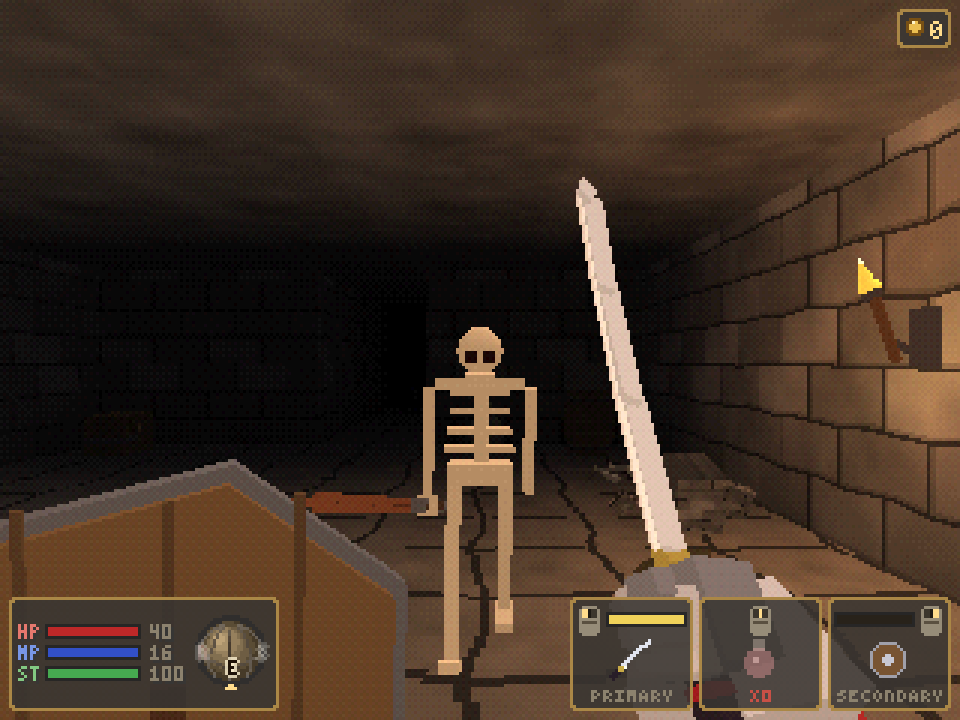
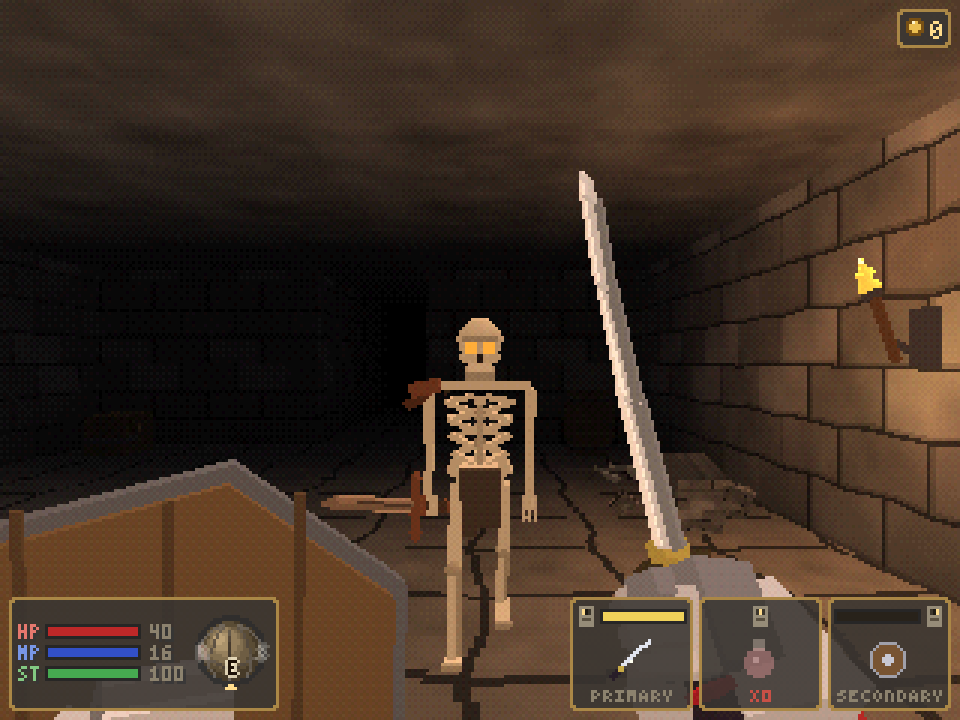
Retake the README shots with the redesigned foes
Every shot taken before the foes, swords and the Warden were redesigned
now shows the current models. The flame bolt is caught bursting on the
bone walker, since in flight it hides him. AGENTS.md notes that a new
shield needs its strap in SHIELD_GRIPS.

diff --git a/README.md b/README.md
@@ -41,7 +41,7 @@ FromSoftware, Inc.
   </tr>
   <tr>
     <td><img src="docs/screenshots/dialogue.png" alt="Talking to Odrin the bell-keeper"></td>
-    <td><img src="docs/screenshots/flame_bolt.png" alt="A flame bolt flying at a bone walker"></td>
+    <td><img src="docs/screenshots/flame_bolt.png" alt="A flame bolt bursting on a bone walker"></td>
   </tr>
   <tr>
     <td align="center"><sub>Odrin, keeper of the silent bell</sub></td>
@@ -428,7 +428,7 @@ the hollow's vine path is `uv run ashen-vault --map verdant_hollow --at=9,12,90 
 the Bark Husk is `uv run ashen-vault --map verdant_hollow --at=26,17,-90 --smoke 60 --shot bark_husk.png`,
 the log rack is `uv run ashen-vault --map verdant_hollow --at=51,6,180 --smoke 40 --shot log_rack.png`,
 the flame bolt shot is
-`uv run ashen-vault --map sunken_keep --at 15,22,0 --smoke 30 --script "wait:0.3 cast" --shot flame_bolt.png`,
+`uv run ashen-vault --map sunken_keep --at 15,22,0 --smoke 40 --script "wait:0.3 cast" --shot flame_bolt.png`,
 the Loom Mother is `uv run ashen-vault --map verdant_hollow --at=15,7,-90 --smoke 40 --shot loom_mother.png`,
 the lift ride is
 `uv run ashen-vault --map sunken_keep --at 4,24,90 --smoke 560 --script "forward:0.9 wait:5 forward:0.3" --shot undercroft_lift.png`,

diff --git a/AGENTS.md b/AGENTS.md
@@ -246,7 +246,9 @@ ASHEN_VAULT_SAVE=/tmp/ashen_test_save.json \
   draws the slots as cards (`hud.slot_card`, `quick_card`). A mouse action must never share a name with
   a movement key (`tests/test_input.py`): `"back"` once did, and a raised shield walked you backward. Items carry a `level` requirement: buying is
   allowed, equipping is not (`Inventory.equip_error`). The first-person arms (`models.weapon_view`)
-  take their sleeve and glove looks from `SLEEVES` / `GLOVES`, so new armor needs an entry there.
+  take their sleeve and glove looks from `SLEEVES` / `GLOVES`, so new armor needs an entry there; a new
+  shield needs its strap in `models.SHIELD_GRIPS`, where the fist closes (drawn after the shield, so a
+  raised shield shows the hand).
 - Weapons, shields and armor carry a `mass` (kg). Their total sets the player's load tier
   (`player/burden.py`, `Player.burden`): heavier gear walks slower, refills ST slower and pays more ST
   for attacks, sprinting and blocking. New gear needs a `mass` (`tests/test_burden.py`).
